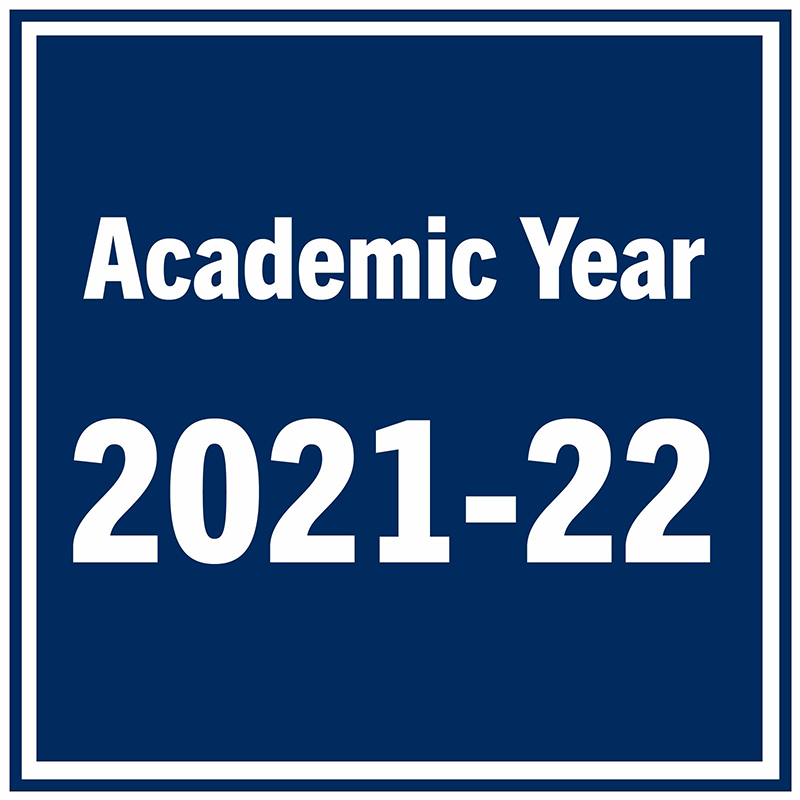
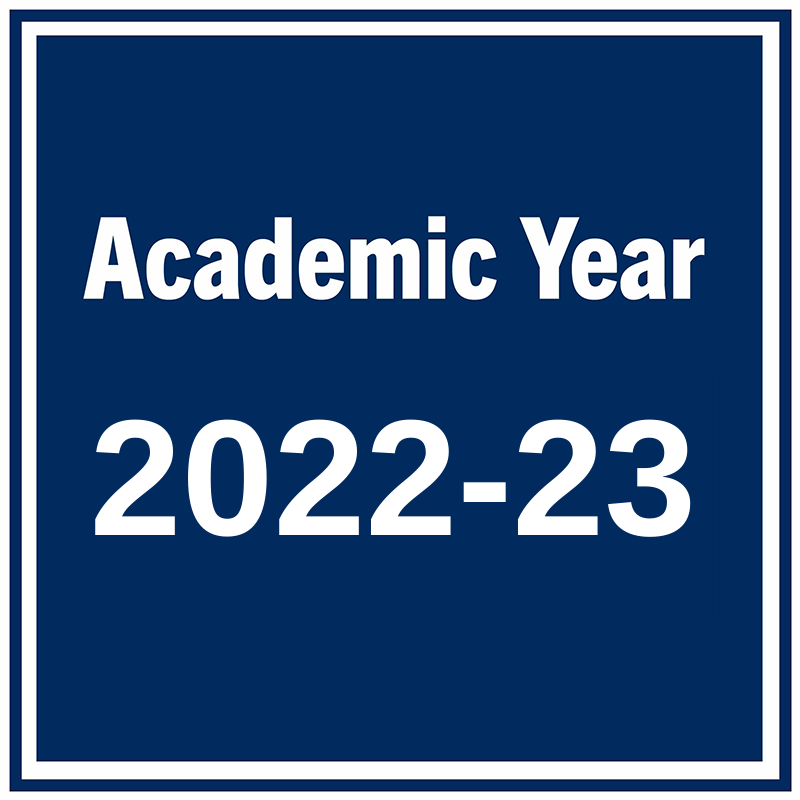
updated to 2022 2023 data

Changed region(s): [[0.0938, 0.5, 0.9062, 0.7188]]

diff --git a/src/store/index.js b/src/store/index.js
@@ -9,7 +9,7 @@ Vue.use(Vuex);
 export default new Vuex.Store({
   state: {
     // change this number to clear storage
-    clearStorage: '1',
+    clearStorage: '2',
     allowedConflictCourses: !localStorage.allowedConflictCourses
       ? []
       : JSON.parse(localStorage.allowedConflictCourses),
@@ -706,7 +706,7 @@ export default new Vuex.Store({
         return state.winterSelectedCourses;
       }
     },
-    isConflictedCourse: state => courseCode => 
+    isConflictedCourse: state => courseCode =>
         state.allowedConflictCourses.findIndex(
           curCourse => curCourse.code === courseCode,
         ) !== -1,
